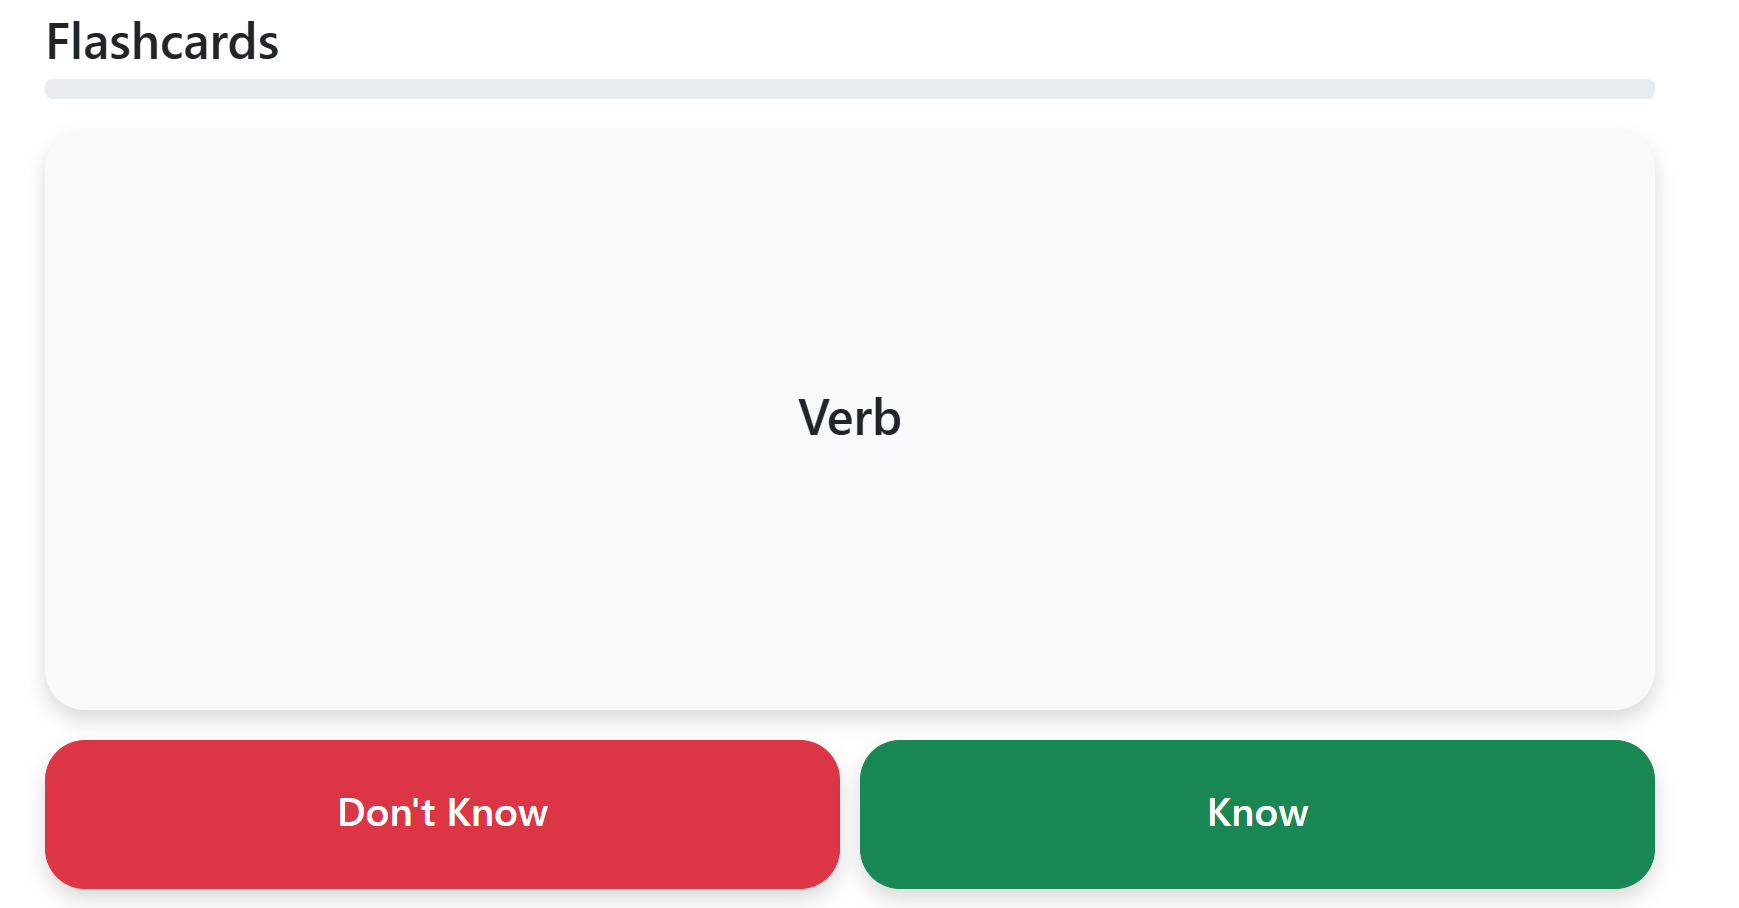
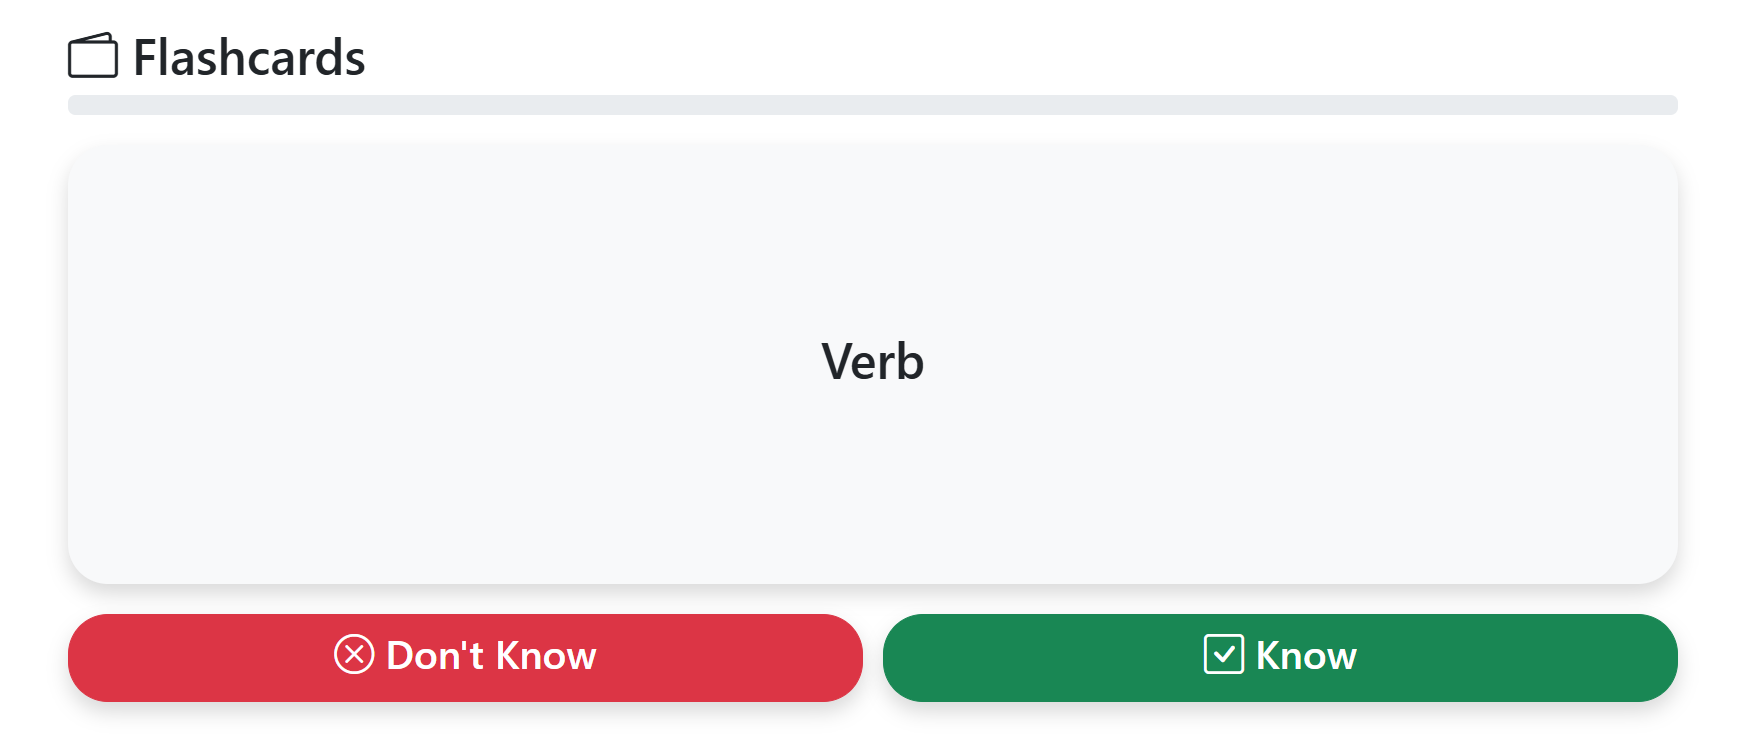
.

Changed region(s): [[0.0, 0.807, 0.9626, 0.9933], [0.0311, 0.031, 0.2174, 0.1242], [0.4347, 0.4345, 0.5279, 0.5277]]

diff --git a/Components/startPage.php b/Components/startPage.php
@@ -35,7 +35,7 @@
                     </svg> </a>
             </div>
             <div class="feature col"
-                style="background: linear-gradient(rgba(0,0,0,0.3), rgba(0,0,0,0.3)), url('Components/Images/StudySets.png'); background-size: cover; background-repeat: no-repeat; background-position: center; padding: 1rem; color: white; border-radius: 0.5rem;">
+                style="background: linear-gradient(rgba(0,0,0,0.3), rgba(0,0,0,0.3)), url('Components/Images/StudySets.png?v=2'); background-size: cover; background-repeat: no-repeat; background-position: center; padding: 1rem; color: white; border-radius: 0.5rem;">
                 <h3 class="fs-2" style="color: #007bff;">Studysets</h3>
                 <p>Create your own studysets to organize and review your learning materials.</p> <a href="signIn.php"
                     class="icon-link">
